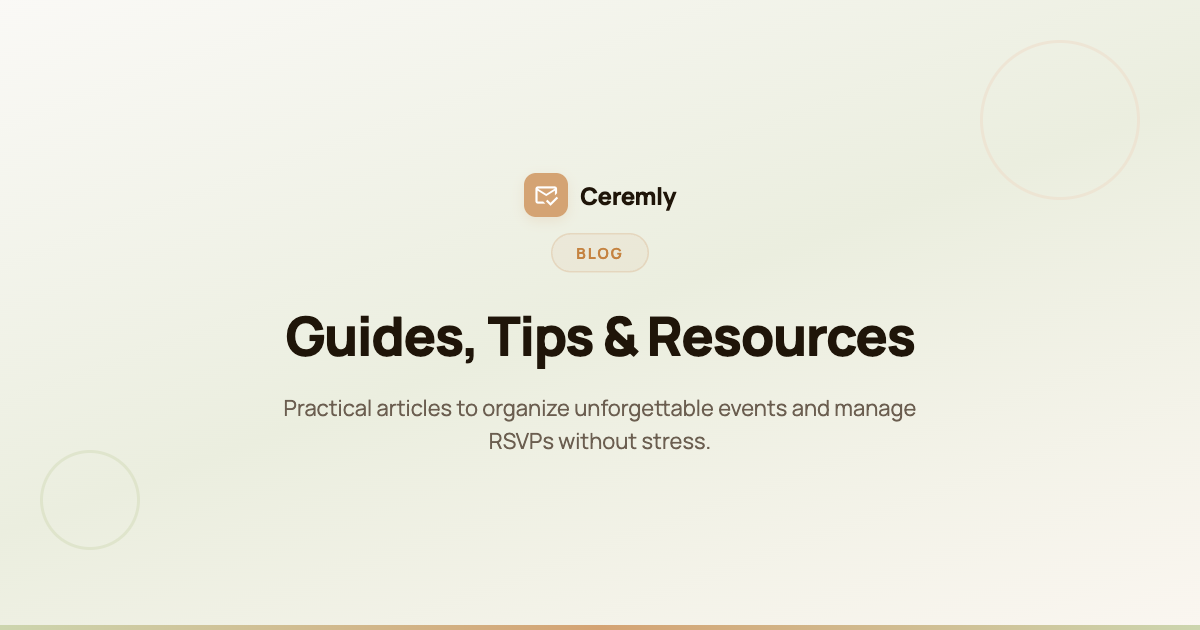
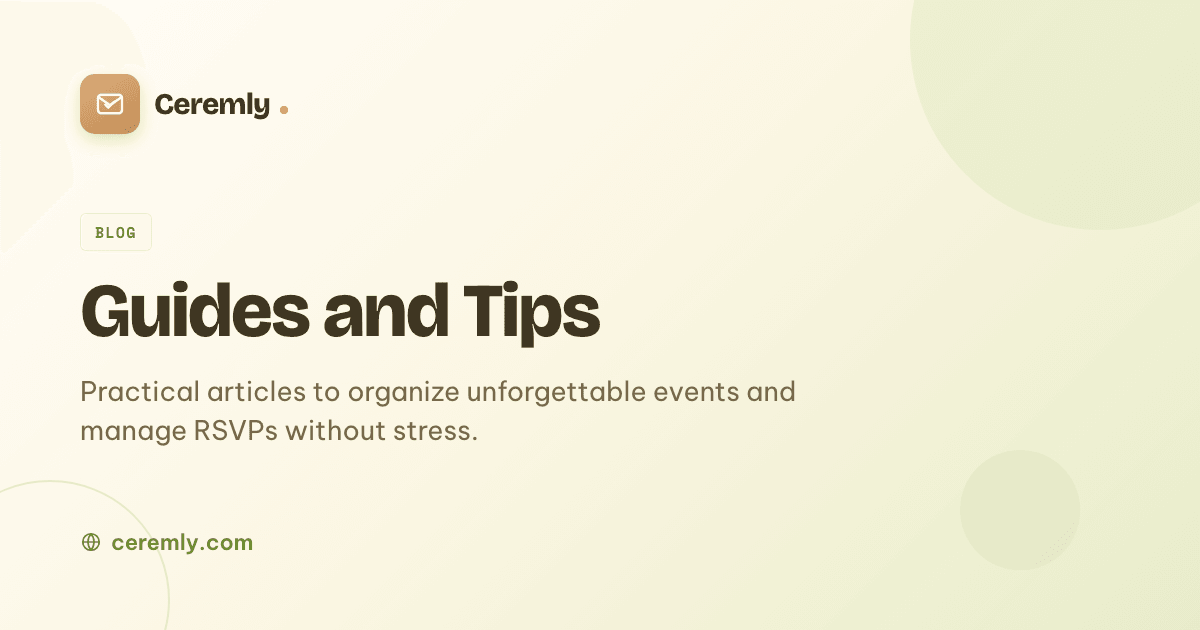
feat(og): OG image per-pagina brand-aligned per il sito pubblico
Sostituisce l'unica immagine OG condivisa (il claim della home, hardcoded
e sempre in IT) con immagini context-aware 1200x630 per ogni pagina, nei
due locali IT/EN. Replica il design system "Soft Meadow": badge busta+check,
font Bricolage Grotesque / Be Vietnam Pro / Space Mono, palette camel/sage,
con tinta e tag distinti per categoria (Prodotto / Per chi / Risorse / Ceremly).

- scripts/generate-og.mjs: generatore riproducibile (Playwright + sharp),
  testi presi da i18n, PNG quantizzato <150KB. Avvio: pnpm og:generate
- 17 pagine: ogImage e twitterImage ora locale-aware e per-pagina
  (fix: erano hardcoded a /ogImage-it.png -> lingua e anteprima errate
  su /en e, per twitterImage globale, immagine home su Twitter ovunque)
- home + blog rigenerate nello stesso stile; footer corretto a ceremly.com
  (era ceremly.it). Nessuna modifica a app.vue/pagine blog (path invariati)

Verificato: typecheck 0 errori, lint pulito, ispezione visiva di tutte le 38.

diff --git a/app/pages/how-it-works.vue b/app/pages/how-it-works.vue
@@ -8,7 +8,7 @@ import CerMiniInvite from '~/components/ceremly/CerMiniInvite.vue'
 
 definePageMeta({ layout: 'public-site', auth: false })
 
-const { t, tm, rt } = useI18n()
+const { t, tm, rt, locale } = useI18n()
 const localePath = useLocalePath()
 const runtimeConfig = useRuntimeConfig()
 const baseUrl = ((runtimeConfig.public.baseURL as string) || '').replace(/\/$/, '')
@@ -20,7 +20,8 @@ useSeoMeta({
     description: seoDescription,
     ogTitle: seoTitle,
     ogDescription: seoDescription,
-    ogImage: `${baseUrl}/ogImage-it.png`,
+    ogImage: () => `${baseUrl}/og/how-it-works-${locale.value.startsWith('it') ? 'it' : 'en'}.png`,
+    twitterImage: () => `${baseUrl}/og/how-it-works-${locale.value.startsWith('it') ? 'it' : 'en'}.png`,
     ogType: 'website',
 })
 

diff --git a/app/pages/templates.vue b/app/pages/templates.vue
@@ -8,7 +8,7 @@ import CerMiniInvite from '~/components/ceremly/CerMiniInvite.vue'
 
 definePageMeta({ layout: 'public-site', auth: false })
 
-const { t, tm, rt } = useI18n()
+const { t, tm, rt, locale } = useI18n()
 const localePath = useLocalePath()
 const runtimeConfig = useRuntimeConfig()
 const baseUrl = ((runtimeConfig.public.baseURL as string) || '').replace(/\/$/, '')
@@ -20,7 +20,8 @@ useSeoMeta({
     description: seoDescription,
     ogTitle: seoTitle,
     ogDescription: seoDescription,
-    ogImage: `${baseUrl}/ogImage-it.png`,
+    ogImage: () => `${baseUrl}/og/templates-${locale.value.startsWith('it') ? 'it' : 'en'}.png`,
+    twitterImage: () => `${baseUrl}/og/templates-${locale.value.startsWith('it') ? 'it' : 'en'}.png`,
     ogType: 'website',
 })
 

diff --git a/app/pages/help-center.vue b/app/pages/help-center.vue
@@ -7,7 +7,7 @@ import CerSiteH2 from '~/components/ceremly/CerSiteH2.vue'
 
 definePageMeta({ layout: 'public-site', auth: false })
 
-const { t, tm, rt } = useI18n()
+const { t, tm, rt, locale } = useI18n()
 const localePath = useLocalePath()
 const runtimeConfig = useRuntimeConfig()
 const baseUrl = ((runtimeConfig.public.baseURL as string) || '').replace(/\/$/, '')
@@ -19,7 +19,8 @@ useSeoMeta({
     description: seoDescription,
     ogTitle: seoTitle,
     ogDescription: seoDescription,
-    ogImage: `${baseUrl}/ogImage-it.png`,
+    ogImage: () => `${baseUrl}/og/help-center-${locale.value.startsWith('it') ? 'it' : 'en'}.png`,
+    twitterImage: () => `${baseUrl}/og/help-center-${locale.value.startsWith('it') ? 'it' : 'en'}.png`,
     ogType: 'website',
 })
 

diff --git a/app/pages/examples.vue b/app/pages/examples.vue
@@ -8,7 +8,7 @@ import CerSiteCTA from '~/components/ceremly/CerSiteCTA.vue'
 
 definePageMeta({ layout: 'public-site', auth: false })
 
-const { t, tm, rt } = useI18n()
+const { t, tm, rt, locale } = useI18n()
 const localePath = useLocalePath()
 const runtimeConfig = useRuntimeConfig()
 const baseUrl = ((runtimeConfig.public.baseURL as string) || '').replace(/\/$/, '')
@@ -20,7 +20,8 @@ useSeoMeta({
     description: seoDescription,
     ogTitle: seoTitle,
     ogDescription: seoDescription,
-    ogImage: `${baseUrl}/ogImage-it.png`,
+    ogImage: () => `${baseUrl}/og/examples-${locale.value.startsWith('it') ? 'it' : 'en'}.png`,
+    twitterImage: () => `${baseUrl}/og/examples-${locale.value.startsWith('it') ? 'it' : 'en'}.png`,
     ogType: 'website',
 })
 

diff --git a/app/pages/features.vue b/app/pages/features.vue
@@ -7,7 +7,7 @@ import CerSiteCTA from '~/components/ceremly/CerSiteCTA.vue'
 
 definePageMeta({ layout: 'public-site', auth: false })
 
-const { t, tm, rt } = useI18n()
+const { t, tm, rt, locale } = useI18n()
 const localePath = useLocalePath()
 const runtimeConfig = useRuntimeConfig()
 const baseUrl = ((runtimeConfig.public.baseURL as string) || '').replace(/\/$/, '')
@@ -19,7 +19,8 @@ useSeoMeta({
     description: seoDescription,
     ogTitle: seoTitle,
     ogDescription: seoDescription,
-    ogImage: `${baseUrl}/ogImage-it.png`,
+    ogImage: () => `${baseUrl}/og/features-${locale.value.startsWith('it') ? 'it' : 'en'}.png`,
+    twitterImage: () => `${baseUrl}/og/features-${locale.value.startsWith('it') ? 'it' : 'en'}.png`,
     ogType: 'website',
 })
 

diff --git a/app/pages/pricing.vue b/app/pages/pricing.vue
@@ -10,7 +10,7 @@ import CerFaqGrid from '~/components/ceremly/CerFaqGrid.vue'
 
 definePageMeta({ layout: 'public-site', auth: false })
 
-const { t, tm, rt } = useI18n()
+const { t, tm, rt, locale } = useI18n()
 const localePath = useLocalePath()
 const runtimeConfig = useRuntimeConfig()
 const baseUrl = ((runtimeConfig.public.baseURL as string) || '').replace(/\/$/, '')
@@ -22,7 +22,8 @@ useSeoMeta({
     description: seoDescription,
     ogTitle: seoTitle,
     ogDescription: seoDescription,
-    ogImage: `${baseUrl}/ogImage-it.png`,
+    ogImage: () => `${baseUrl}/og/pricing-${locale.value.startsWith('it') ? 'it' : 'en'}.png`,
+    twitterImage: () => `${baseUrl}/og/pricing-${locale.value.startsWith('it') ? 'it' : 'en'}.png`,
     ogType: 'website',
 })
 

diff --git a/app/pages/api.vue b/app/pages/api.vue
@@ -7,7 +7,7 @@ import CerSiteCTA from '~/components/ceremly/CerSiteCTA.vue'
 
 definePageMeta({ layout: 'public-site', auth: false })
 
-const { t, tm, rt } = useI18n()
+const { t, tm, rt, locale } = useI18n()
 const localePath = useLocalePath()
 const runtimeConfig = useRuntimeConfig()
 const baseUrl = ((runtimeConfig.public.baseURL as string) || '').replace(/\/$/, '')
@@ -19,7 +19,8 @@ useSeoMeta({
     description: seoDescription,
     ogTitle: seoTitle,
     ogDescription: seoDescription,
-    ogImage: `${baseUrl}/ogImage-it.png`,
+    ogImage: () => `${baseUrl}/og/api-${locale.value.startsWith('it') ? 'it' : 'en'}.png`,
+    twitterImage: () => `${baseUrl}/og/api-${locale.value.startsWith('it') ? 'it' : 'en'}.png`,
     ogType: 'website',
 })
 

diff --git a/app/pages/wedding-planner.vue b/app/pages/wedding-planner.vue
@@ -4,7 +4,7 @@ import CerUseCase from '~/components/ceremly/CerUseCase.vue'
 
 definePageMeta({ layout: 'public-site', auth: false })
 
-const { t } = useI18n()
+const { t, locale } = useI18n()
 const runtimeConfig = useRuntimeConfig()
 const baseUrl = ((runtimeConfig.public.baseURL as string) || '').replace(/\/$/, '')
 
@@ -15,7 +15,8 @@ useSeoMeta({
     description: seoDescription,
     ogTitle: seoTitle,
     ogDescription: seoDescription,
-    ogImage: `${baseUrl}/ogImage-it.png`,
+    ogImage: () => `${baseUrl}/og/wedding-planner-${locale.value.startsWith('it') ? 'it' : 'en'}.png`,
+    twitterImage: () => `${baseUrl}/og/wedding-planner-${locale.value.startsWith('it') ? 'it' : 'en'}.png`,
     ogType: 'website',
 })
 </script>

diff --git a/app/pages/changelog.vue b/app/pages/changelog.vue
@@ -5,7 +5,7 @@ import CerSiteHero from '~/components/ceremly/CerSiteHero.vue'
 
 definePageMeta({ layout: 'public-site', auth: false })
 
-const { t, tm, rt } = useI18n()
+const { t, tm, rt, locale } = useI18n()
 const runtimeConfig = useRuntimeConfig()
 const baseUrl = ((runtimeConfig.public.baseURL as string) || '').replace(/\/$/, '')
 
@@ -16,7 +16,8 @@ useSeoMeta({
     description: seoDescription,
     ogTitle: seoTitle,
     ogDescription: seoDescription,
-    ogImage: `${baseUrl}/ogImage-it.png`,
+    ogImage: () => `${baseUrl}/og/changelog-${locale.value.startsWith('it') ? 'it' : 'en'}.png`,
+    twitterImage: () => `${baseUrl}/og/changelog-${locale.value.startsWith('it') ? 'it' : 'en'}.png`,
     ogType: 'website',
 })
 

diff --git a/app/pages/rsvp-guide.vue b/app/pages/rsvp-guide.vue
@@ -6,7 +6,7 @@ import CerSiteCTA from '~/components/ceremly/CerSiteCTA.vue'
 
 definePageMeta({ layout: 'public-site', auth: false })
 
-const { t, tm, rt } = useI18n()
+const { t, tm, rt, locale } = useI18n()
 const runtimeConfig = useRuntimeConfig()
 const baseUrl = ((runtimeConfig.public.baseURL as string) || '').replace(/\/$/, '')
 
@@ -17,7 +17,8 @@ useSeoMeta({
     description: seoDescription,
     ogTitle: seoTitle,
     ogDescription: seoDescription,
-    ogImage: `${baseUrl}/ogImage-it.png`,
+    ogImage: () => `${baseUrl}/og/rsvp-guide-${locale.value.startsWith('it') ? 'it' : 'en'}.png`,
+    twitterImage: () => `${baseUrl}/og/rsvp-guide-${locale.value.startsWith('it') ? 'it' : 'en'}.png`,
     ogType: 'website',
 })
 

diff --git a/app/pages/graduations.vue b/app/pages/graduations.vue
@@ -4,7 +4,7 @@ import CerUseCase from '~/components/ceremly/CerUseCase.vue'
 
 definePageMeta({ layout: 'public-site', auth: false })
 
-const { t } = useI18n()
+const { t, locale } = useI18n()
 const runtimeConfig = useRuntimeConfig()
 const baseUrl = ((runtimeConfig.public.baseURL as string) || '').replace(/\/$/, '')
 
@@ -15,7 +15,8 @@ useSeoMeta({
     description: seoDescription,
     ogTitle: seoTitle,
     ogDescription: seoDescription,
-    ogImage: `${baseUrl}/ogImage-it.png`,
+    ogImage: () => `${baseUrl}/og/graduations-${locale.value.startsWith('it') ? 'it' : 'en'}.png`,
+    twitterImage: () => `${baseUrl}/og/graduations-${locale.value.startsWith('it') ? 'it' : 'en'}.png`,
     ogType: 'website',
 })
 </script>

diff --git a/app/pages/birthdays.vue b/app/pages/birthdays.vue
@@ -4,7 +4,7 @@ import CerUseCase from '~/components/ceremly/CerUseCase.vue'
 
 definePageMeta({ layout: 'public-site', auth: false })
 
-const { t } = useI18n()
+const { t, locale } = useI18n()
 const runtimeConfig = useRuntimeConfig()
 const baseUrl = ((runtimeConfig.public.baseURL as string) || '').replace(/\/$/, '')
 
@@ -15,7 +15,8 @@ useSeoMeta({
     description: seoDescription,
     ogTitle: seoTitle,
     ogDescription: seoDescription,
-    ogImage: `${baseUrl}/ogImage-it.png`,
+    ogImage: () => `${baseUrl}/og/birthdays-${locale.value.startsWith('it') ? 'it' : 'en'}.png`,
+    twitterImage: () => `${baseUrl}/og/birthdays-${locale.value.startsWith('it') ? 'it' : 'en'}.png`,
     ogType: 'website',
 })
 </script>
